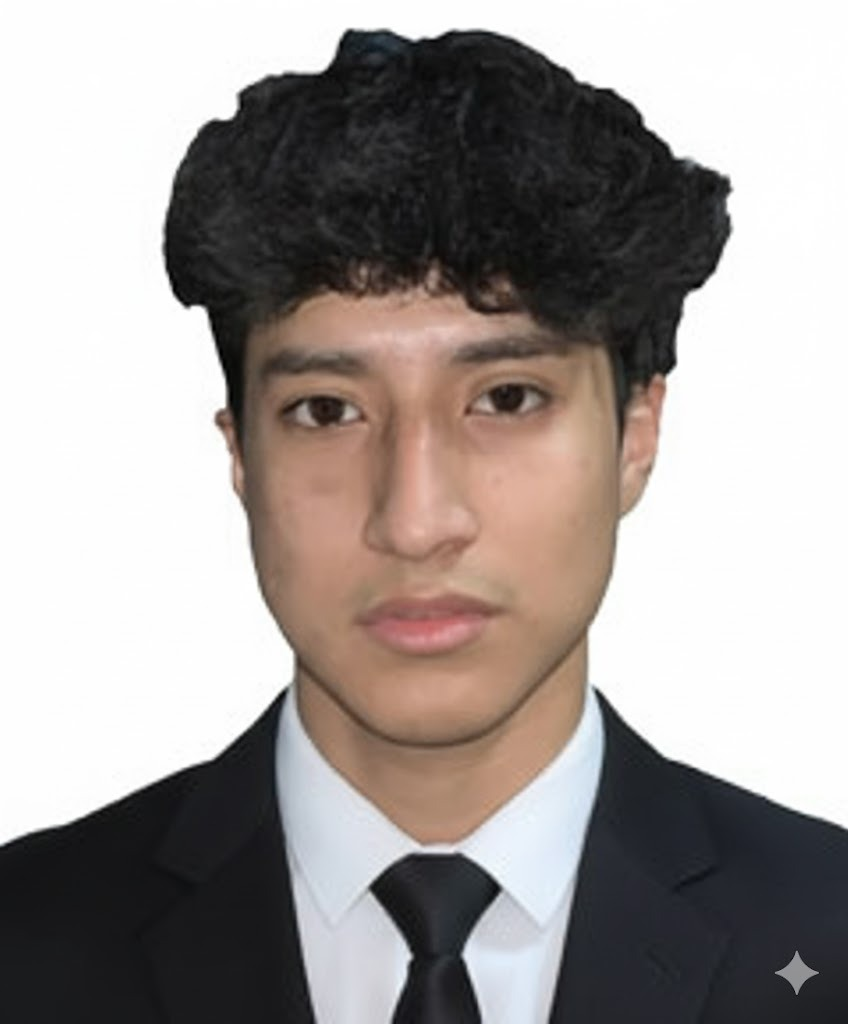
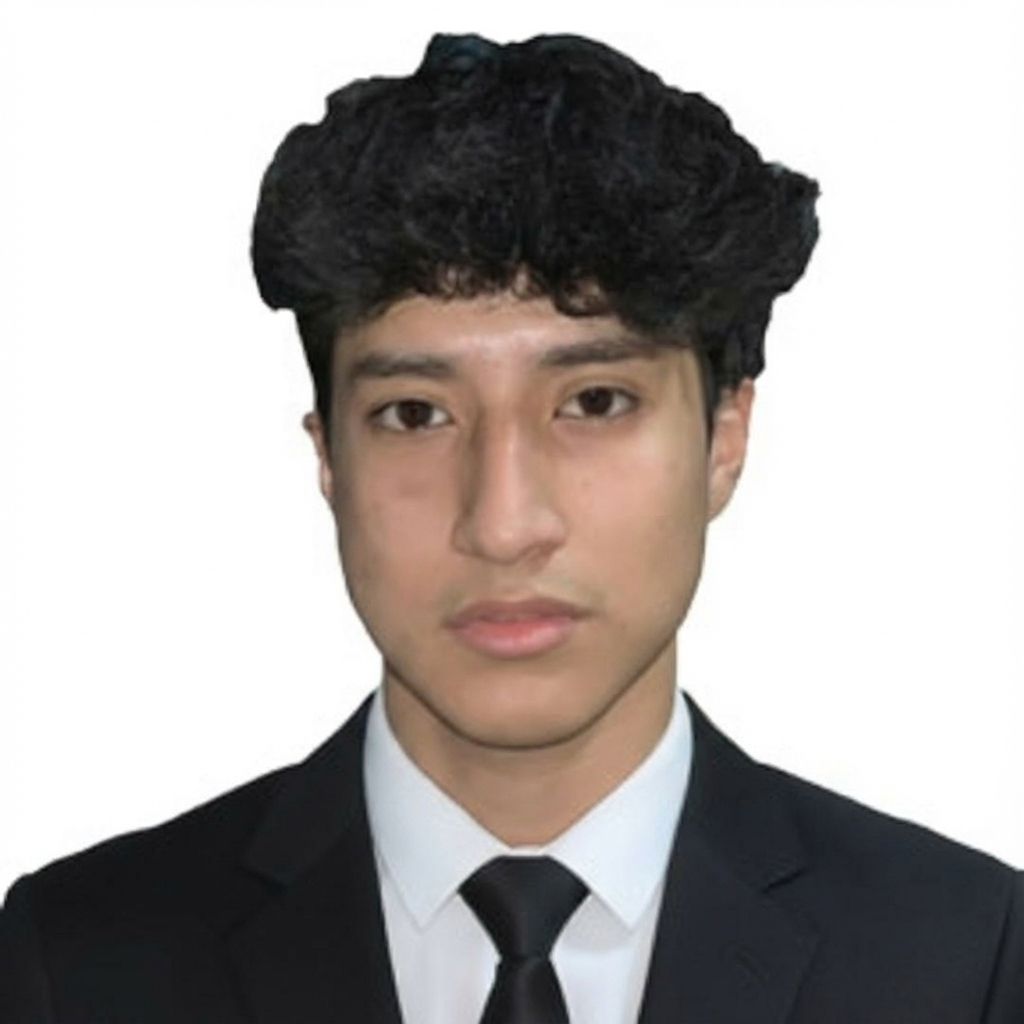
portafolio 6.01.2026v2

diff --git a/src/App.css b/src/App.css
@@ -10,9 +10,11 @@
 }
 
 .hero-layout {
-  display: grid;
-  grid-template-columns: 1fr 1fr;
-  gap: 60px;
+  display: flex;
+  flex-wrap: wrap;
+  justify-content: center;
+  gap: 40px;
+  /* Reduced gap slightly for better fit */
   align-items: center;
   min-height: 500px;
 }
@@ -21,18 +23,28 @@
   display: flex;
   justify-content: center;
   align-items: center;
+  flex: 1;
+  min-width: 280px;
+  /* Reduced min-width */
 }
 
 .hero-right {
   display: flex;
   flex-direction: column;
   justify-content: center;
+  flex: 1;
+  min-width: 280px;
+  /* Reduced min-width */
 }
 
 .image-carousel {
   position: relative;
-  width: 300px;
-  height: 300px;
+  width: 100%;
+  max-width: 300px;
+  /* Fluid width with max limit */
+  aspect-ratio: 1 / 1;
+  /* Keep square ratio */
+  height: auto;
 }
 
 .carousel-container {
@@ -40,6 +52,7 @@
   width: 100%;
   height: 100%;
   border-radius: 50%;
+  /* Make it circular */
   overflow: hidden;
   box-shadow: 0 20px 40px rgba(0, 0, 0, 0.3);
 }
@@ -49,10 +62,12 @@
   width: 100%;
   height: 100%;
   object-fit: cover;
-  object-position: center 20%;
+  object-position: center top;
+  /* Center top by default */
   opacity: 0;
   transition: opacity 0.5s ease-in-out;
-  transform: scale(1.1);
+  transform: none;
+  /* No scale by default */
 }
 
 .profile-image.active {
@@ -711,16 +726,16 @@
 
   /* Ajustes específicos para imágenes del carrusel en móvil */
   .profile-image {
-    transform: scale(1.2);
-    object-position: center 15%;
+    transform: none;
+    object-position: center top;
   }
 }
 
 /* Media query para pantallas muy pequeñas */
 @media (max-width: 480px) {
   .profile-image {
-    transform: scale(1.3);
-    object-position: center 10%;
+    transform: none;
+    object-position: center top;
   }
 
   .image-carousel {
@@ -729,11 +744,25 @@
   }
 }
 
+/* Fix for specific range mentioned by user */
+@media (max-width: 840px) {
+  .hero {
+    padding: 80px 0;
+    /* Reduce padding to save space */
+  }
+
+  .profile-image {
+    transform: none !important;
+    object-fit: cover !important;
+    object-position: center center !important;
+  }
+}
+
 /* Media query para tablets */
 @media (min-width: 769px) and (max-width: 1024px) {
   .profile-image {
-    transform: scale(1.05);
-    object-position: center 25%;
+    transform: none;
+    object-position: center top;
   }
 
   .skills-container {

diff --git a/src/App.jsx b/src/App.jsx
@@ -55,6 +55,10 @@ function App() {
     [
       "/proyecto1.PNG",
       "/proyecto2.jpg"
+    ],
+    [
+      "/PRY2.PNG",
+      "/PRY3.PNG"
     ]
   ]
 
@@ -116,7 +120,7 @@ function App() {
             <div className="hero-right">
               <div className="hero-content">
                 <h1>Omar Cárdenas Ayala</h1>
-                <p className="hero-subtitle">Estudiante de Ingeniería de Sistemas Computacionales</p>
+                <p className="hero-subtitle">Estudiante en Ingeniería de Sistemas Computacionales</p>
                 <p className="hero-description">
                   Especializado en pagos digitales, desarrollo web y tecnologías cloud. Practicante en Alignet S.A.C.
                 </p>
@@ -466,10 +470,26 @@ function App() {
                 </div>
               </div>
             </div>
+            <div className="card project-card">
+              <ProjectCarousel images={imagenesPry[2]} />
+              <div className="project-info">
+                <h3>Tienda Virtual - GiampierShop (En Producción)</h3>
+                <p>Plataforma web virtual para vender ropa de baños y bikinis</p>
+                <div className="project-tech">
+                  <span>HTML</span>
+                  <span>CSS</span>
+                  <span>Desarrollo Web</span>
+                  <span>Python</span>
+                  <span>MYSQL</span>
+                </div>
+                <div className="project-links">
+                  <a href="https://giampiershop.shop/index.html" className="btn" target="_blank" rel="noopener noreferrer">Ver Página</a>
+                </div>
+              </div>
+            </div>
           </div>
         </div>
       </section>
-
 
       {/* Contacto */}
       <section id="contacto" className="section contact-section">
